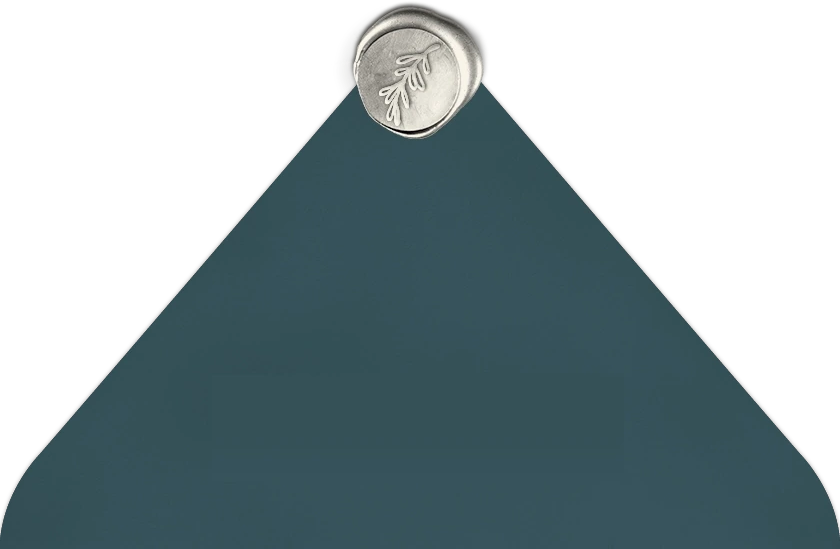
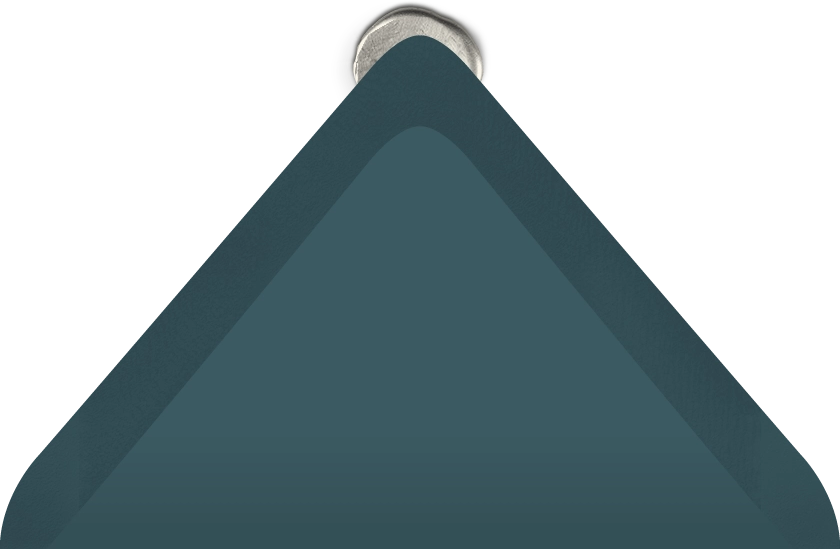
Usar la cara interior de la solapa cuando el sobre está abierto
Al levantarse, la solapa enseña su cara de dentro, con el forro y el lacre
asomando por la punta; hasta ahora se reutilizaba la cara exterior, que es
lisa. La pieza se guarda ya volteada (solapa-abierta.png), porque la solapa da
la vuelta sobre su bisagra y la punta queda arriba; sin voltear queda en
solapa-interior.webp.

Changed region(s): [[0.4024, 0.031, 0.5881, 0.2477], [0.9905, 0.929, 1.0, 0.9909]]

diff --git a/config/wedding.ts b/config/wedding.ts
@@ -420,7 +420,12 @@ export const backgrounds = {
      * Gira de 0° a 90° y se oculta.
      */
     flapClosed: '/invitacion/sobre-solapa-limpia.webp',
-    /** Solapa abierta, con el lacre. Aparece a 89° y baja hasta 0°. */
+    /**
+     * Solapa abierta: la cara INTERIOR, con el forro y el lacre asomando por
+     * la punta. Viene ya volteada, porque al abrirse la solapa da la vuelta
+     * sobre su bisagra y la punta queda arriba. Aparece a 89° y baja a 0°.
+     * Sin voltear está en solapa-interior.webp.
+     */
     flapOpen: '/invitacion/solapa-abierta.png',
     /** Sombra que proyecta la solapa al abrirse. */
     flapShadow: '/invitacion/sombra-solapa.png',
